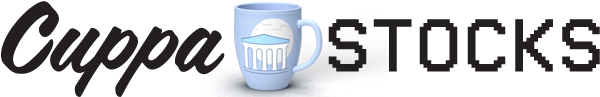
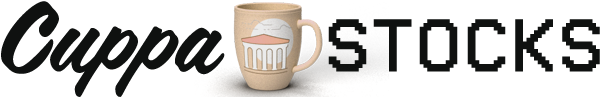
Began implementation of the tabbed commodities section, color scheme changes to site and mug graphics

Changed region(s): [[0.39, 0.0, 0.54, 0.9588]]

diff --git a/index.html b/index.html
@@ -53,11 +53,43 @@
 
             </div>
 
-        <section id="stats" class="section column is-three-quarters BG-custom-color-2">
-            <div class="title columns is-full"></div>
-            <div id="commodities" class="columns is-half">
-            </div>
-            <div id="stocks-other" class="columns is-half">
+        <section id="stats" class="section column is-three-quarters testing has-background-white">
+            <div id="commodities" class="title columns is-full">Commodity Roundup</div>
+            <div  id="tab-holder" class="tabs is-boxed is-fullwidth">
+                <ul>
+                  <li class="is-active coffee">
+                    <a>
+                      <span class="icon is-large"><i class="fa-solid fa-mug-hot" aria-hidden="true"></i></span>
+                      <span>Coffee</span>
+                    </a>
+                  </li>
+                  <li class="wheat">
+                    <a>
+                      <span class="icon is-large"><i class="fa-solid fa-wheat-awn" aria-hidden="true"></i></span>
+                      <span>Wheat</span>
+                    </a>
+                  </li>
+                  <li class="copper">
+                    <a>
+                      <span class="icon is-large"><i class="fa-solid fa-coins" aria-hidden="true"></i></span>
+                      <span>Copper</span>
+                    </a>
+                  </li>
+                  <li class="corn">
+                    <a>
+                      <span class="icon is-large"><i class="fa-solid fa-seedling" aria-hidden="true"></i></span>
+                      <span>Corn</span>
+                    </a>
+                  </li>
+                  <li class="oil">
+                    <a>
+                      <span class="icon is-large"><i class="fa-solid fa-truck-droplet" aria-hidden="true"></i></span>
+                      <span>Oil</span>
+                    </a>
+                  </li>
+                </ul>
+              </div>
+
             </div>
         </section>
 

diff --git a/assets/css/custom.css b/assets/css/custom.css
@@ -9,35 +9,56 @@ sky blue storm #697eab (define as custom variable)
 */
 
 :root {
+--coffee: #8c6849;
+--wheat: #eadece;
+--wheat-dark: #b9a589;
+--copper: #db842c;
+--corn: #fff691;
+--corn-dark: #d9cd23;
+--oil: #523909;
 --sky-blue: #bed5f7;
 --teal-dark: #72A0C0;
 --sky-blue-storm: #697eab; 
     text-align: center;
 }
 
-.custom-color-1 {
-    color: var(--sky-blue);
+.coffee {
+    background-color:  var(--coffee);
 }
 
-.BG-custom-color-1 {
-    background-color:  var(--sky-blue);
+.oil {
+    background-color: var(--oil);
 }
 
-.custom-color-2 {
-    background-color: var(--teal-dark);
+.copper {
+    background-color: var(--copper);
 }
 
-.BG-custom-color-2 {
-    background-color: var(--teal-dark);
+.corn {
+    background-color: var(--corn-dark);
 }
 
-.custom-color-3 {
-    background-color: var(--sky-blue-storm);
+.wheat {
+    background-color: var(--wheat-dark);
 }
 
-.BG-custom-color-3 {
-    background-color: var(--sky-blue-storm);
+li span {
+    color: white;
 }
+
+li.is-active span {
+    color: black;
+}
+
+/* Override the background color of the active tab */
+.tabs.is-tab .is-active .coffee {
+    background-color:var(--coffee); /* Your desired color */
+  }
+  
+  /* Override the text color of the inactive tabs */
+  .tabs.is-tab li:not(.is-active) a {
+    color: #0000ff; /* Your desired color */
+  }
 
 .column {
     margin: 1em !important; 
